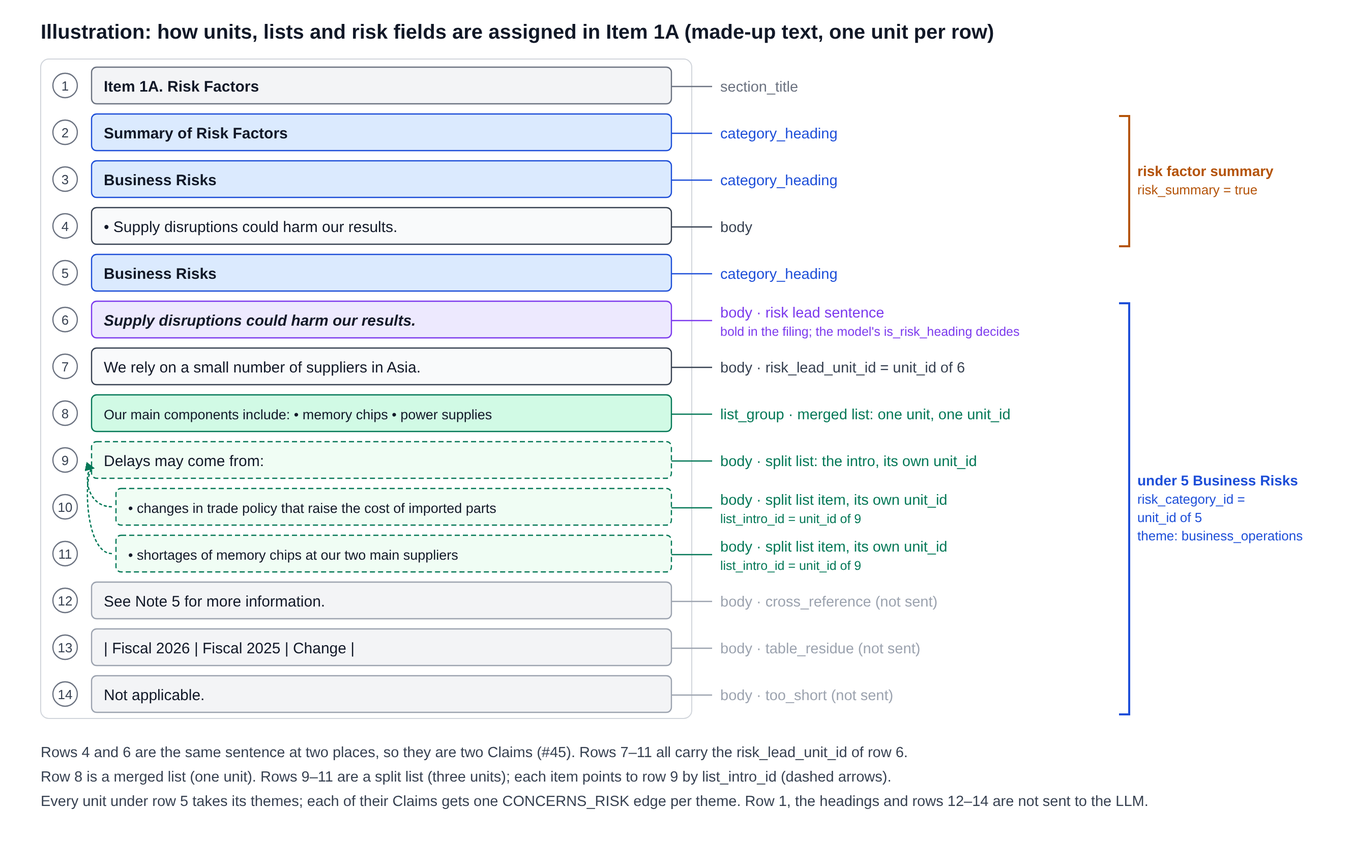
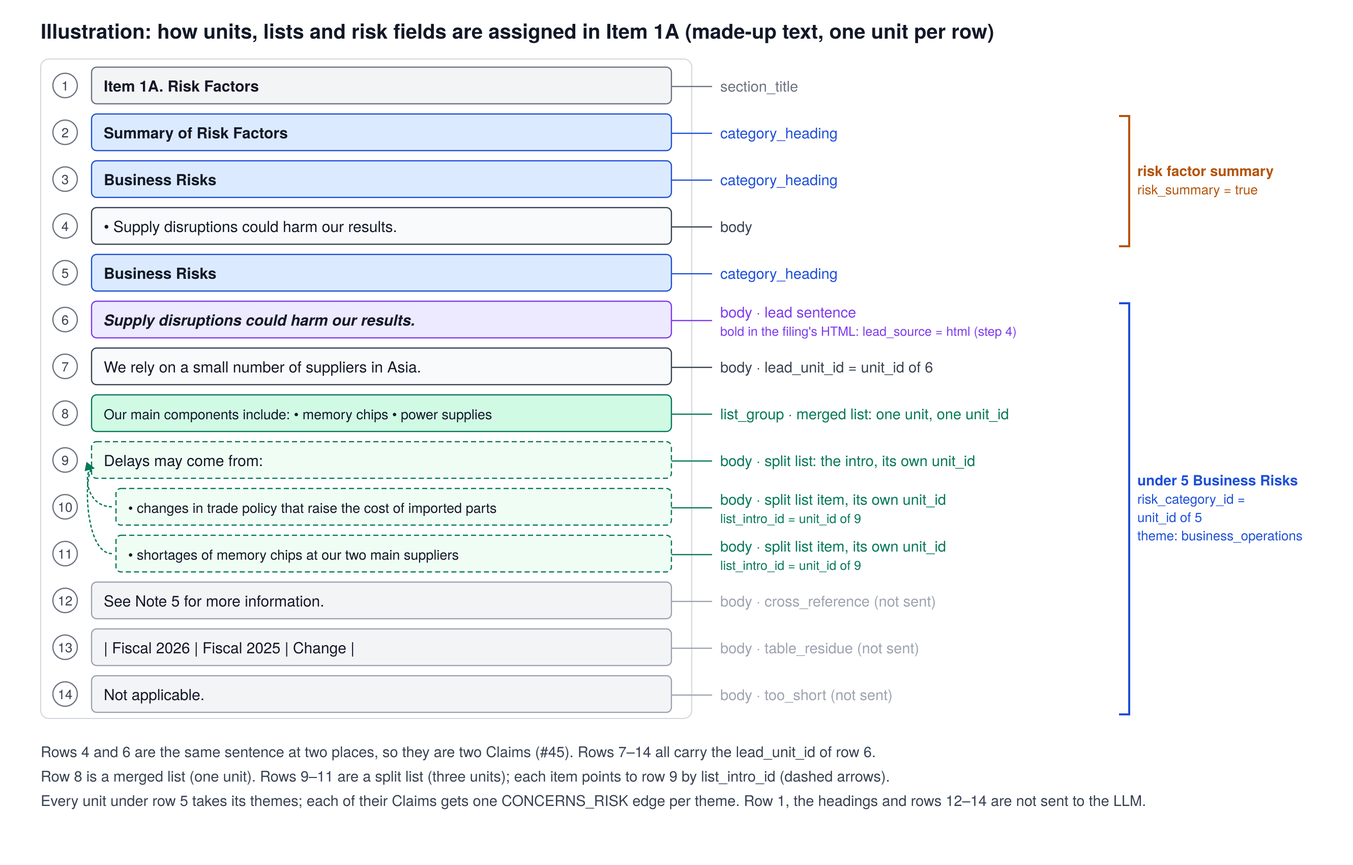
claims: lead sentences from step 4 in every section (patch 7c)
Step 7b now takes is_lead_sentence, lead_unit_id and lead_source from the
step 4 unit (EDGAR HTML leads) for every section, replacing the Item 1A-only
risk_lead_sentence / risk_lead_unit_id that step 7a derived from the model's
is_risk_heading. Step 7a keeps only risk_category_id and risk_ids. In Item 1A
a lead's scope now also ends at sub-headings.

Step 8 writes Claim.is_lead_sentence and SUPPORTS.lead_unit_id / lead_source.
The label prompt and schema are unchanged (is_risk_heading is no longer
read); no change to unit_id, section_path or request hashes.

diff --git a/extraction_pipeline/src/build_claims.py b/extraction_pipeline/src/build_claims.py
@@ -20,8 +20,8 @@ Identity (#45, README "Unit ID & Claim ID"):
                            the id; one that moves a unit's start, end or fragments changes it.
   claim_identity_version   source_span_position_v1 (was exact_source_sentence_v1, keyed by text)
   candidate_occurrence_id  sha256 of [claim_id, section content hash, raw_spans].
-Every id in a record that points at another unit (context, risk category, risk lead
-sentence) is a unit_id.
+Every id in a record that points at another unit (context, risk category, lead sentence)
+is a unit_id.
 
 Each run compares its claim_ids with the previous claims.jsonl and writes the counts to
 data/output/claim_id_report.json (Adeline's suggestion on #45): ids added, ids gone, and ids
@@ -31,12 +31,15 @@ The ontology fields (decision 2.3) are claim_id, quote, claim_type, accession_nu
 section_id, extraction_status, context, subject_scope and annotation_note. Everything else
 is provenance or review information.
 
+Lead sentences come from step 4 (sentences.jsonl), in every section:
+  is_lead_sentence         true if the sentence sums up the sentences under it (step 4 lead_source)
+  provenance.lead_source   html, html_runin or rule for a lead, else null
+  provenance.lead_unit_id  the lead above the sentence (step 4), or null. A unit_id, only
+                           recorded: the lead itself may not be a Claim (not_a_claim, held).
 Risk fields come from step 7a (data/interim/risk_assignments.jsonl), by unit id:
-  risk_ids               risk themes of the risk category the sentence sits under (may be empty)
-  risk_category_id       that category heading's unit_id, or null outside a category
-  risk_lead_sentence     true if the sentence opens and sums up one risk
-  risk_summary           true if it is in the risk factor summary at the top of Item 1A
-The risk lead sentence above each sentence is kept in provenance (risk_lead_unit_id).
+  risk_ids                 risk themes of the risk category the sentence sits under (may be empty)
+  risk_category_id         that category heading's unit_id, or null outside a category
+  risk_summary             true if it is in the risk factor summary at the top of Item 1A (step 4)
 """
 
 from __future__ import annotations
@@ -48,7 +51,7 @@ from collections import Counter
 from . import entity_annotation, source_review
 from .common import UNIT_IDENTITY_VERSION, Paths, log, read_jsonl, write_jsonl
 
-NO_RISK = {"risk_category_id": None, "risk_ids": [], "risk_lead_sentence": False, "risk_lead_unit_id": None}
+NO_RISK = {"risk_category_id": None, "risk_ids": []}
 from .validate import CLAIM_TYPES, assessment, held_ids
 
 STEP = "build_claims"
@@ -85,7 +88,7 @@ def candidate(unit: dict, label: dict, units: dict[str, dict], source: dict, cle
         "subject_scope": result["subject_scope"], "annotation_note": result["annotation_note"],
         "section_type": unit["section_type"],
         "risk_ids": risk["risk_ids"], "risk_category_id": risk["risk_category_id"],
-        "risk_lead_sentence": risk["risk_lead_sentence"], "risk_summary": unit.get("risk_summary", False),
+        "is_lead_sentence": bool(unit.get("lead_source")), "risk_summary": unit.get("risk_summary", False),
         "source_fragments": fragments, "parent_paragraph_context": parent,
         "provenance": {"section_key": unit["section_key"],
                        "section_path": unit["section_path"], "source_locator": source["source_locator"],
@@ -98,7 +101,7 @@ def candidate(unit: dict, label: dict, units: dict[str, dict], source: dict, cle
                        "section_content_sha256": digest(source["content"]),
                        "coordinate_system": "exact_data_section_content_unicode_codepoints",
                        "raw_spans": spans, "context_unit_ids": [c["unit_id"] for c in context],
-                       "risk_lead_unit_id": risk["risk_lead_unit_id"],
+                       "lead_unit_id": unit.get("lead_unit_id"), "lead_source": unit.get("lead_source"),
                        "request_hash": label["request_hash"],
                        "runner_version": label.get("runner_version") or label_runner_version(),
                        "model": label["model"], "prompt_version": label["prompt_version"]},
@@ -180,7 +183,9 @@ def run() -> None:
     log(STEP, f"{len(records)} occurrences of {len({r['claim_id'] for r in records})} Claims "
               f"({', '.join(f'{k}={v}' for k, v in sorted(by_type.items()))}); skipped {dict(skipped)} "
               f"-> {Paths.claims()}")
-    log(STEP, f"{sum(bool(r['risk_ids']) for r in records)} occurrences have a risk theme; "
+    log(STEP, f"{sum(r['is_lead_sentence'] for r in records)} occurrences are lead sentences, "
+              f"{sum(bool(r['provenance']['lead_unit_id']) for r in records)} sit under one; "
+              f"{sum(bool(r['risk_ids']) for r in records)} have a risk theme; "
               f"{sum(r['multi_fragment'] for r in records)} are multi-fragment (list groups, page breaks)")
     log(STEP, f"claim_ids since the last build: {report['added']} added, {report['gone']} gone, "
               f"{report['kept']} kept ({report['quote_changed']} with a changed quote)"

diff --git a/extraction_pipeline/src/risk_factors.py b/extraction_pipeline/src/risk_factors.py
@@ -1,24 +1,22 @@
 """Step 7a - Risk factors: place every Item 1A sentence under its risk category and risk themes.
 
-Input : data/output/sentences.jsonl, data/output/labels.jsonl (optional),
+Input : data/output/sentences.jsonl,
         config/risk_themes.csv       the risk theme library: risk_id, name, definition
         config/risk_theme_map.csv    risk category text -> risk_ids (reviewed by hand)
 Output: data/output/risk_categories.csv     one row per risk category heading in each filing
         data/interim/risk_assignments.jsonl one row per Item 1A sentence
 
-Three levels (README, risk factors):
+Two levels (README, risk factors):
   risk_category       a category heading the filing itself uses ("Business Risks"). Its id is
                       the unit_id of that heading (a position in the source, #45), so it is
                       unique to one filing and does not move when other sentences are re-split.
   risk_theme          an entry of the library, shared by all companies and filings (risk_id).
                       A category maps to zero, one or several themes through risk_theme_map.csv.
-  risk_lead_sentence  the sentence that opens and sums up one risk (flagged by the LLM as
-                      is_risk_heading; without an LLM label, the step 4 rule proposal).
 
 Every sentence belongs to the category heading above it, by position, and takes that
-category's themes. Sentences before the first category heading have none. Each sentence
-also records the risk lead sentence above it within the same category (its unit_id); this
-link is kept for later and does not reach the graph yet. Every id here is a unit_id.
+category's themes. Sentences before the first category heading have none. Every id here is
+a unit_id. Lead sentences are not decided here: step 4 marks them in every section
+(lead_source, lead_unit_id, from the filing's HTML) and step 7b reads them from there.
 
 A category text missing from risk_theme_map.csv is listed as "unmapped" and gets no theme;
 add it to the map to connect it.
@@ -68,23 +66,15 @@ def theme_map(library: dict[str, dict]) -> dict[str, list[str]]:
     return mapping
 
 
-def is_lead_sentence(unit: dict, labels: dict[str, dict]) -> bool:
-    label = labels.get(unit["unit_id"])
-    if label and label["source"] in ("llm", "llm_repair"):
-        return bool(label["is_risk_heading"])
-    return bool(unit.get("rule_heading"))
-
-
-def assign(units: list[dict], labels: dict[str, dict],
-           mapping: dict[str, list[str]]) -> tuple[list[dict], list[dict]]:
+def assign(units: list[dict], mapping: dict[str, list[str]]) -> tuple[list[dict], list[dict]]:
     """Return one row per category heading and one assignment per Item 1A unit."""
     categories, assignments = [], []
-    section = category = lead = None
+    section = category = None
     for u in units:
         if u["section_type"] != "risk_factors":
             continue
         if (u["accession_number"], u["section_key"]) != section:
-            section, category, lead = (u["accession_number"], u["section_key"]), None, None
+            section, category = (u["accession_number"], u["section_key"]), None
         if u["role"] == "category_heading":
             key = category_key(u["text"])
             ids = mapping.get(key)
@@ -96,28 +86,21 @@ def assign(units: list[dict], labels: dict[str, dict],
                 "map_status": "unmapped" if ids is None else "mapped" if ids else "not_a_theme",
             }
             categories.append(category)
-            lead = None
             continue
-        lead_here = is_lead_sentence(u, labels)
-        if lead_here:
-            lead = u["unit_id"]
         if category:
             category["n_units"] += 1
         assignments.append({
             "unit_id": u["unit_id"],
             "risk_category_id": category["risk_category_id"] if category else None,
             "risk_ids": list(category["risk_ids"]) if category else [],
-            "risk_lead_sentence": lead_here,
-            "risk_lead_unit_id": lead,
         })
     return categories, assignments
 
 
 def run() -> None:
     units = list(read_jsonl(Paths.sentences()))
-    labels = {l["unit_id"]: l for l in read_jsonl(Paths.labels())} if Paths.labels().exists() else {}
     library = theme_library()
-    categories, assignments = assign(units, labels, theme_map(library))
+    categories, assignments = assign(units, theme_map(library))
 
     write_csv(Paths.risk_categories(), [dict(c, risk_ids=";".join(c["risk_ids"])) for c in categories],
               CATEGORY_FIELDS)

diff --git a/extraction_pipeline/tests/test_sentence_entities.py b/extraction_pipeline/tests/test_sentence_entities.py
@@ -3,7 +3,7 @@ from src.segment import (split_sentences, prefilter, is_bullet, merge_list, is_p
                          is_category, is_colon_heading, mark_risk_summary, segment_section)
 from src.entity_annotation import annotate_mentions
 from src.clean import drop_rule, has_table_cells, should_join
-from src.risk_factors import assign, category_key, is_lead_sentence
+from src.risk_factors import assign, category_key
 from src.common import source_text, unit_id
 
 
@@ -304,27 +304,26 @@ class RiskCategories(unittest.TestCase):
         self.assertFalse(units[1]["risk_summary"])
 
     def test_sentences_take_the_themes_of_their_category(self):
-        def unit(n, role, text, rule_heading=None):
+        def unit(n, role, text):
             return {"unit_id": f"u{n}", "accession_number": "A", "ticker": "T", "form": "10-K",
                     "section_key": "item-1a", "section_type": "risk_factors", "role": role, "text": text,
-                    "rule_heading": rule_heading, "risk_summary": False}
+                    "risk_summary": False}
         units = [unit(1, "body", "The following risks could affect us."),
                  unit(2, "category_heading", "Risks Related to Intellectual Property and Litigation"),
-                 unit(3, "body", "We may be sued for infringement.", "high"),
+                 unit(3, "body", "We may be sued for infringement."),
                  unit(4, "body", "Such claims are costly."),
                  unit(5, "category_heading", "INDEX TO RISK FACTORS")]
         mapping = {category_key("Risks related to intellectual property and litigation"):
                    ["intellectual_property", "legal_regulatory"],
                    category_key("Index to Risk Factors"): []}
-        categories, assignments = assign(units, {}, mapping)
+        categories, assignments = assign(units, mapping)
         self.assertEqual([c["map_status"] for c in categories], ["mapped", "not_a_theme"])
         by_id = {a["unit_id"]: a for a in assignments}
         self.assertEqual(by_id["u1"]["risk_ids"], [])                    # before any category
         self.assertEqual(by_id["u4"]["risk_ids"], ["intellectual_property", "legal_regulatory"])
-        self.assertEqual(by_id["u4"]["risk_lead_unit_id"], "u3")           # unit ids (#45)
         self.assertEqual(by_id["u4"]["risk_category_id"], "u2")
-        self.assertEqual(categories[0]["risk_category_id"], "u2")
-        self.assertTrue(by_id["u3"]["risk_lead_sentence"])
+        self.assertEqual(categories[0]["risk_category_id"], "u2")        # unit ids (#45)
+        self.assertEqual(set(by_id["u4"]), {"unit_id", "risk_category_id", "risk_ids"})   # leads: step 4 (7c)
 
 
 class SourceMatching(unittest.TestCase):
@@ -340,12 +339,6 @@ class SourceMatching(unittest.TestCase):
         second = content.index("follow.")
         joined = [[35, 45], [second, second + 7]]                  # the page number is left out
         self.assertEqual(source_text(content, joined), "Delays may follow.")
-
-    def test_repaired_label_counts_as_model_judgement(self):
-        unit = {"unit_id": "x", "rule_heading": None}
-        for source in ("llm", "llm_repair"):
-            self.assertTrue(is_lead_sentence(unit, {"x": {"source": source, "is_risk_heading": True}}))
-        self.assertTrue(is_lead_sentence({"unit_id": "y", "rule_heading": "high"}, {}))
 
 
 class UnitIdentity(unittest.TestCase):

diff --git a/extraction_pipeline/src/load.py b/extraction_pipeline/src/load.py
@@ -107,7 +107,7 @@ MERGE (c:Claim {claim_id: r.claim_id, pipeline_scope: $scope})
 SET c.quote = r.quote, c.claim_type = r.claim_type, c.accession_number = r.accession_number,
     c.section_id = r.section_id, c.extraction_status = r.extraction_status, c.context = r.context,
     c.subject_scope = r.subject_scope, c.annotation_note = r.annotation_note,
-    c.risk_lead_sentence = r.risk_lead_sentence, c.risk_summary = r.risk_summary,
+    c.is_lead_sentence = r.is_lead_sentence, c.risk_summary = r.risk_summary,
     c.multi_fragment = r.multi_fragment
 WITH c, r
 MATCH (s:Section {section_id: r.section_id, pipeline_scope: $scope})
@@ -181,20 +181,21 @@ def merge_occurrences(occurrences: list[dict], roles: dict[str, str]) -> list[di
             prov["raw_spans"].append(p["raw_spans"])
             claim["multi_fragment"] = claim["multi_fragment"] or bool(occ.get("multi_fragment"))
             claim["risk_ids"] += [x for x in occ.get("risk_ids") or [] if x not in claim["risk_ids"]]
-            claim["risk_lead_sentence"] = claim["risk_lead_sentence"] or bool(occ.get("risk_lead_sentence"))
+            claim["is_lead_sentence"] = claim["is_lead_sentence"] or bool(occ.get("is_lead_sentence"))
             claim["risk_summary"] = claim["risk_summary"] and bool(occ.get("risk_summary"))
             continue
         claims[occ["claim_id"]] = {
             **{k: occ.get(k) for k in ("claim_id", "quote", "claim_type", "accession_number", "section_id",
                                        "extraction_status", "context", "subject_scope", "annotation_note")},
             "risk_ids": list(occ.get("risk_ids") or []),
-            "risk_lead_sentence": bool(occ.get("risk_lead_sentence")),
+            "is_lead_sentence": bool(occ.get("is_lead_sentence")),
             "risk_summary": bool(occ.get("risk_summary")),
             "multi_fragment": bool(occ.get("multi_fragment")),
             "provenance": {
                 "section_key": p["section_key"],
                 "section_path": p["section_path"],
-                "risk_lead_unit_id": p.get("risk_lead_unit_id"),
+                "lead_unit_id": p.get("lead_unit_id"),
+                "lead_source": p.get("lead_source"),
                 "role": roles.get(occ["claim_id"], "body"),
                 "context_unit_ids": p.get("context_unit_ids") or [],
                 "raw_spans": [p["raw_spans"]],
@@ -212,7 +213,8 @@ def flat_provenance(p: dict) -> dict:
     return {
         "section_key": p["section_key"],
         "section_path": p["section_path"],
-        "risk_lead_unit_id": p["risk_lead_unit_id"],
+        "lead_unit_id": p["lead_unit_id"],
+        "lead_source": p["lead_source"],
         "role": p["role"],
         "context_unit_ids": p["context_unit_ids"],
         "raw_spans_json": json.dumps(p["raw_spans"]),

diff --git a/extraction_pipeline/tests/test_pipeline.py b/extraction_pipeline/tests/test_pipeline.py
@@ -375,6 +375,25 @@ class EndToEnd(unittest.TestCase):
         categories = list(csv.DictReader(open(Paths.risk_categories(), encoding="utf-8")))
         self.assertEqual([(c["category_text"], c["map_status"]) for c in categories], [("Industry Risks", "mapped")])
 
+    def test_claims_take_leads_from_step_4(self):
+        # patch 7c: is_lead_sentence and lead_unit_id / lead_source come from the step 4 unit,
+        # in every section, whatever the model's is_risk_heading says
+        units = {u["unit_id"]: u for u in self.units}
+        for c in self.claims:
+            unit = units[c["claim_id"]]
+            self.assertEqual(c["is_lead_sentence"], bool(unit["lead_source"]))
+            self.assertEqual((c["provenance"]["lead_unit_id"], c["provenance"]["lead_source"]),
+                             (unit["lead_unit_id"], unit["lead_source"]))
+            self.assertNotIn("risk_lead_sentence", c)
+            self.assertNotIn("risk_lead_unit_id", c["provenance"])
+        self.assertTrue(any(c["is_lead_sentence"] for c in self.claims))
+        under = [c for c in self.claims if c["provenance"]["lead_unit_id"]]
+        self.assertTrue(under)
+        rows = {r["claim_id"]: r for r in load.build_rows()["claims"]}
+        for c in under:
+            self.assertEqual(rows[c["claim_id"]]["provenance"]["lead_unit_id"], c["provenance"]["lead_unit_id"])
+        self.assertIn("c.is_lead_sentence = r.is_lead_sentence", Paths.cypher().read_text(encoding="utf-8"))
+
     def test_no_half_quotes(self):
         # #35 review, point 1: a multi-span unit must not be quoted by its first fragment only
         units = {u["unit_id"]: u for u in self.units}

diff --git a/extraction_pipeline/README.md b/extraction_pipeline/README.md
@@ -155,8 +155,9 @@ flowchart LR
     CL -->|"8 Load: CONCERNS_RISK"| RF
 ```
 
-Details: [step 7a](#step-7a-risk-factors); the themes and the map: [Appendix B](#appendix-b-risk-themes); whether
-only lead sentences should link to a theme: [Remaining issues 2.2](#2-decide-but-can-be-open).
+Details: [step 7a](#step-7a-risk-factors); the themes and the map: [Appendix B](#appendix-b-risk-themes); lead
+sentences (`lead_unit_id`, every section): [step 4](#step-4-segment); whether only lead sentences should link to a
+theme: [Remaining issues 2.2](#2-decide-but-can-be-open).
 
 #### c. lists
 ```mermaid
@@ -363,8 +364,8 @@ sees its intro, even when a batch boundary cuts the list ([step 5](#step-5-label
       `html_not_rule_1a`). `output/lead_review.csv`: one row per lead (`kind lead`, with
       `units_under` and the next text) and per `rule_heading` unit the HTML did not make a lead
       (`kind rule_only`), to decide `segment.lead_rule`.
-    - Step 7a still takes its `risk_lead_*` fields from `rule_heading` and the step 5 labels; it
-      moves to `lead_*` later (patch 7c).
+    - Step 7b copies them onto every Claim (`is_lead_sentence`, `provenance.lead_unit_id`,
+      `provenance.lead_source`); the model's `is_risk_heading` is not used (patch 7c).
     - Units in the risk factor summary that some filings open with (MU, TTWO) carry
       `risk_summary = true`. The summary ends where a category it listed appears again (as a
       heading or a category heading: with step 4b levels the categories in the summary are
@@ -494,6 +495,8 @@ sees its intro, even when a batch boundary cuts the list ([step 5](#step-5-label
   - The model returns, per number: a label (`stated_fact`, `forward_looking`, `hedged_risk`, or
     the pipeline-only `not_a_claim` and `needs_review`), `context_ids`, `subject_scope`,
     `annotation_note`, `is_risk_heading` and `entity_mentions` (segments and subsidiaries named).
+    `is_risk_heading` is no longer read (lead sentences come from step 4, patch 7c); it stays in
+    the prompt until the next prompt version.
   - The client sends `Accept-Encoding: identity`, so replies are never brotli-compressed: an old
     `brotli` package (below 1.2.0) breaks httpx2's decoding (#46). `openai` is pinned to 3.40.0.
   - A reply fails, and publishes no labels, when it is incomplete or a refusal, is not the
@@ -557,12 +560,9 @@ sees its intro, even when a batch boundary cuts the list ([step 5](#step-5-label
     to zero, one or several themes of `config/risk_themes.csv`.
     - Empty means the heading is not a theme (e.g. MCK "INDEX TO RISK FACTORS").
     - A category missing from the map is reported as `unmapped` and gets no theme.
-  - **Risk lead sentence:** the sentence that opens and sums up one risk.
-    - It is the model's `is_risk_heading`, or without a model label the step 4 proposal
-      (`rule_heading`).
-    - Each unit also records the lead sentence above it (`risk_lead_unit_id`). It is kept as a
-      property on `SUPPORTS`; there is no Claim-to-Claim edge
-      ([Remaining issues 2.2](#2-decide-but-can-be-open)).
+  - Lead sentences are not decided here: step 4 marks them in every section (`lead_source`,
+    `lead_unit_id`, [step 4](#step-4-segment)). In Item 1A a lead's scope ends at the next
+    category heading or sub-heading. The model's `is_risk_heading` is no longer read (patch 7c).
   - On the 20 filings:
     - 78 category headings (46 distinct texts), all in the map: 72 with themes, 6 not a theme
     - 5,071 of the 5,302 Item 1A units sent to the LLM have a theme
@@ -588,12 +588,14 @@ sees its intro, even when a batch boundary cuts the list ([step 5](#step-5-label
     data/output/claim_repeats.json` counts Claims whose text repeats in another filing of the same
     company (whitespace normalised; repeats inside one filing are left out).
   - Ids that point at other units (`context_evidence`, `risk_category_id`,
-    `provenance.context_unit_ids`, `provenance.risk_lead_unit_id`) are `unit_id`s.
+    `provenance.context_unit_ids`, `provenance.lead_unit_id`) are `unit_id`s. `lead_unit_id` is
+    only recorded: the lead may not be a Claim itself (`not_a_claim`, or held).
   - Each run compares its `claim_id`s with the `claims.jsonl` it replaces and writes
     `output/claim_id_report.json`: ids added, ids gone, and ids kept whose quote changed, with
     examples. The counts are also logged.
-  - Risk fields from step 7a: `risk_ids`, `risk_category_id`,
-    `risk_lead_sentence` and `risk_summary` ([Appendix A: `claims.jsonl`](#claimsjsonl-step-7b-input-to-step-8)).
+  - Lead fields from step 4, in every section: `is_lead_sentence`, `provenance.lead_unit_id`,
+    `provenance.lead_source`. Risk fields from step 7a: `risk_ids`, `risk_category_id`; and
+    `risk_summary` from step 4 ([Appendix A: `claims.jsonl`](#claimsjsonl-step-7b-input-to-step-8)).
 - <a id="step-8-load"></a>**[8] Load** writes one Claim node per `claim_id`, with its ids and source spans on `SUPPORTS`,
   and `multi_fragment` on the node.
   - A Claim gets one `CONCERNS_RISK` edge per risk theme of its category.
@@ -779,7 +781,7 @@ They need no API key, database or network.
 | `output/sentences.jsonl` | • sentence boundaries<br>• list groups and split items (`list_intro_id`)<br>• headings and `section_path`<br>• `prefilter` reasons<br>• `risk_summary` in MU and TTWO |
 | `output/risk_categories.csv` | • `unmapped` rows: add their category text to `config/risk_theme_map.csv`<br>• `not_a_theme` rows<br>• `n_units` of large categories |
 | `config/risk_theme_map.csv` | rows with a `note`: categories that fit more than one theme, or none clearly ([Appendix B](#appendix-b-risk-themes)) |
-| `output/labels.jsonl` | • units the model labelled `not_a_claim` (`source` is `llm`): they appear neither in the review queue nor in `claims.jsonl`<br>• in Item 1A, `is_risk_heading`, which decides the risk lead sentences |
+| `output/labels.jsonl` | • units the model labelled `not_a_claim` (`source` is `llm`): they appear neither in the review queue nor in `claims.jsonl` |
 | `output/errors.jsonl` | should be empty after step 6 |
 | `output/review_queue.jsonl` | • held units (no `candidate_retained`), their `reason` and `claim_review_flags`<br>• retained Claims with entity `flags` |
 | `output/claims.jsonl` | • sample Claims per section for the type-fit test<br>• `risk_ids` of Item 1A Claims<br>• `multi_fragment` Claims: whether the list or page-break join is right |
@@ -825,7 +827,7 @@ They need no API key, database or network.
      - Apple's 10-Qs (179 units) and the opening paragraphs of each 10-K get no theme.
      - One option is a model pass that picks a theme from the library ([Appendix B](#appendix-b-risk-themes)).
    - the model's `is_risk_heading`
-     - it is kept only for `risk_lead_sentence` and `risk_lead_unit_id`, which [2.2](#2-decide-but-can-be-open) and [1.7](#1-improvement) would use.
+     - no longer read: lead sentences come from step 4 (patch 7c). The field leaves the label prompt with the other prompt changes, before the full step 5 run.
 8. Claims to segments and subsidiaries (#91):
    - P1 (code-only matching, [step 1c](#step-1c-entity-catalog)) is in. On the 20 filings: 402
      of 10,774 Claims link (105 to a subsidiary, 332 to a segment), up from 0.
@@ -921,8 +923,7 @@ One line per unit. "Data team" fields are copied from the section export; the re
 ### `risk_categories.csv` (step 7a)
 
 One row per risk category heading in each filing. `risk_assignments.jsonl` (in `data/interim/`)
-has one line per Item 1A unit (`unit_id`) with its `risk_category_id`, `risk_ids`,
-`risk_lead_sentence` and `risk_lead_unit_id`.
+has one line per Item 1A unit (`unit_id`) with its `risk_category_id` and `risk_ids`.
 
 | Field | Meaning |
 |-------|---------|
@@ -951,9 +952,9 @@ line. "Loaded" shows where a field ends up in Neo4j.
 | `subject_scope`, `annotation_note` | From the model | `Claim` |
 | `risk_ids` | Risk themes of the category the Claim sits under; empty outside Item 1A categories | one `Claim-[:CONCERNS_RISK]->RiskFactor` per theme |
 | `risk_category_id` | `unit_id` of that category heading, or null | no |
-| `risk_lead_sentence` | True if the Claim is the sentence that opens and sums up a risk | `Claim.risk_lead_sentence` |
+| `is_lead_sentence` | True if the Claim is a lead sentence (sums up the sentences under it; step 4 `lead_source`), in any section | `Claim.is_lead_sentence` |
 | `risk_summary` | True if the Claim is in the risk factor summary at the top of Item 1A | `Claim.risk_summary` |
-| `provenance` | Section key and path, XPath, Data team versions (`processing_set_id`, `report_id`, source hashes), section content hash, `raw_spans`, `context_unit_ids`, `risk_lead_unit_id`, `request_hash`, `runner_version`, `model`, `prompt_version` | Part, on `SUPPORTS`: section key and path, `context_unit_ids`, `risk_lead_unit_id`, `raw_spans` (as JSON), XPath, source file, `processing_set_id`, `model`, `prompt_version`; step 8 adds the unit's `role` |
+| `provenance` | Section key and path, XPath, Data team versions (`processing_set_id`, `report_id`, source hashes), section content hash, `raw_spans`, `context_unit_ids`, `lead_unit_id` and `lead_source` (step 4), `request_hash`, `runner_version`, `model`, `prompt_version` | Part, on `SUPPORTS`: section key and path, `context_unit_ids`, `lead_unit_id` and `lead_source` (step 4), `raw_spans` (as JSON), XPath, source file, `processing_set_id`, `model`, `prompt_version`; step 8 adds the unit's `role` |
 | `candidate_occurrence_id` | sha256 of claim id, section content hash and `raw_spans`; one per Claim (Claudia's field name) | no |
 | `claim_identity_version` | How `claim_id` is made: `source_span_position_v1` (before #45: `exact_source_sentence_v1`, by text). Tells anyone holding claim_ids whether two builds' ids are comparable | no |
 | `section_logical_key`, `section_type` | `<accession>/<section_key>`; the section's Item code | no |
